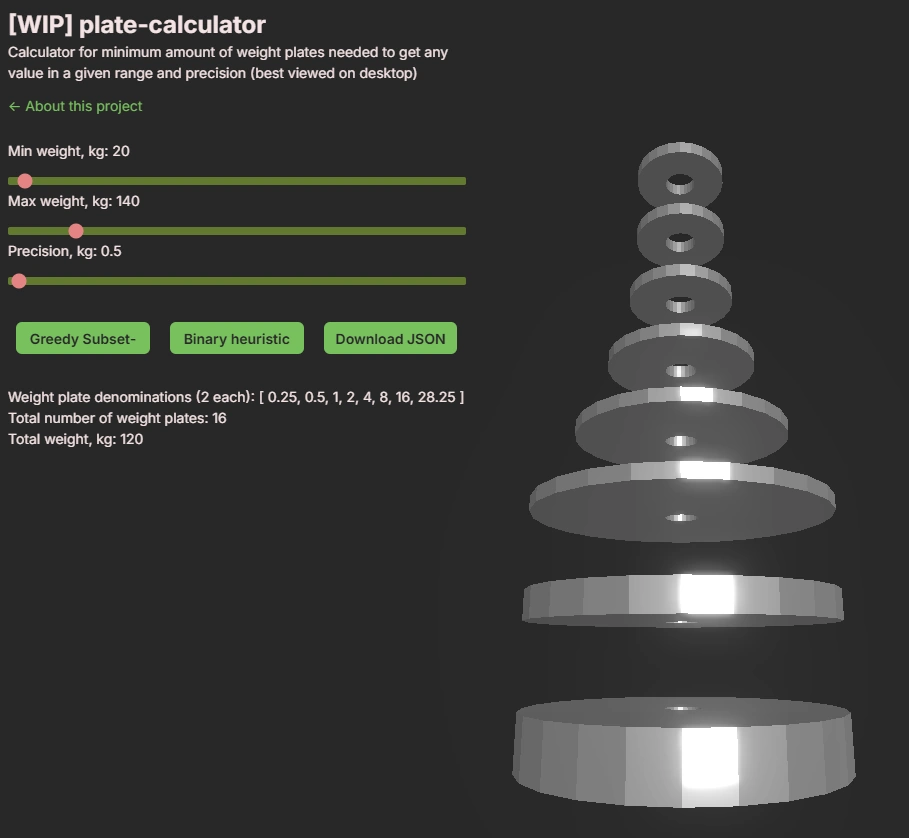
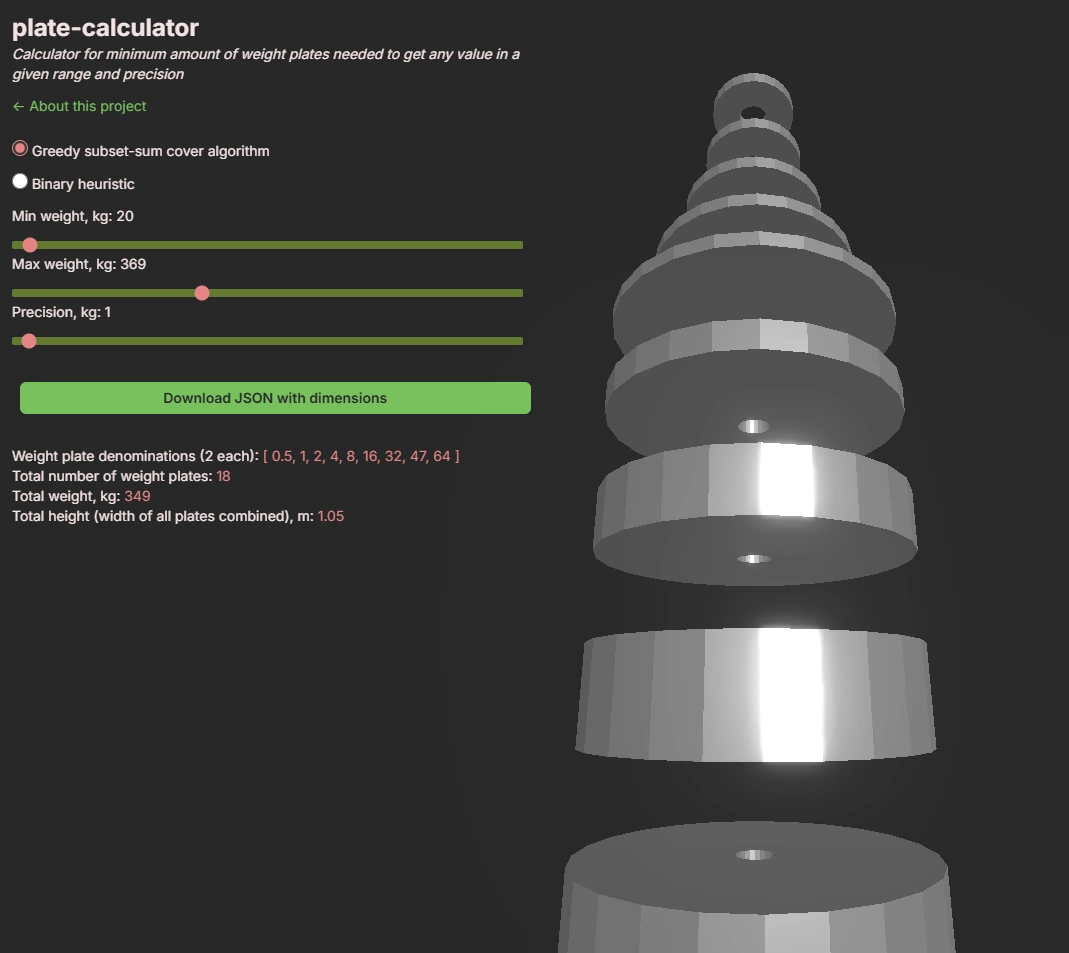
feat: clean up ui

Changed region(s): [[0.5237, 0.0621, 0.9549, 1.0], [0.0, 0.0, 0.5237, 0.4344], [0.0, 0.4654, 0.5237, 0.5585]]

diff --git a/app/pages/index.vue b/app/pages/index.vue
@@ -134,7 +134,7 @@ function exportJson() {
                 {{ AlgoOptions.binaryHeuristic }}
             </label>
         </section>
-        <section class="h-[150px]">
+        <section class="h-[120px] lg:h-[144px]">
             <client-only>
                 <BaseSlider
                     v-model="minWeight"
@@ -167,16 +167,16 @@ function exportJson() {
         <section>
             <client-only>
                 <p class="mt-6">
-                    Weight plate denominations (2 each): {{ plateDenoms }}
+                    Weight plate denominations (2 each): <span class="text-primary">{{ plateDenoms }}</span>
                 </p>
-                <p>Total number of weight plates: {{ result.numPlates }}</p>
+                <p>Total number of weight plates: <span class="text-primary">{{ result.numPlates }}</span></p>
                 <p>
                     Total weight, kg:
-                    {{ result.totalWeight }}
+                    <span class="text-primary">{{ result.totalWeight }}</span>
                 </p>
                 <p>
                     Total height (width of all plates combined), m:
-                    {{ result.totalHeight.toPrecision(3) }}
+                    <span class="text-primary">{{ result.totalHeight.toPrecision(3) }}</span>
                 </p>
             </client-only>
         </section>

diff --git a/app/components/Base/Button.vue b/app/components/Base/Button.vue
@@ -1,7 +1,7 @@
 <template>
     <button
         type="button"
-        class="w-full h-[32px] font-semibold text-background bg-accent hover:bg-background hover:text-accent border-2 border-accent rounded-md py-1 m-2">
+        class="w-full font-semibold text-background bg-accent hover:bg-background hover:text-accent border-2 border-accent rounded-md py-1 px-2 m-2">
         <slot />
     </button>
 </template>

diff --git a/app/pages/about.vue b/app/pages/about.vue
@@ -37,7 +37,7 @@ const md = markdownIt({
 const html = md.render(readmeRaw)
 </script>
 <template>
-    <main class="p-3 w-full max-w-[900px] min-w-[700px] mx-auto">
+    <main class="p-3 w-full max-w-[900px] mx-auto">
         <nav class="mt-3 text-accent">
             <NuxtLink to="/">{{ '<- Back to main page' }}</NuxtLink>
         </nav>

diff --git a/app/components/The/BackgroundScene.vue b/app/components/The/BackgroundScene.vue
@@ -102,7 +102,7 @@ function initControls() {
     controls.enableDamping = true // smooth motion
     controls.dampingFactor = 0.05
     controls.minDistance = 1
-    controls.maxDistance = 5
+    controls.maxDistance = 4
     controls.rotateSpeed = 0.8
 }
 

diff --git a/app/layouts/default.vue b/app/layouts/default.vue
@@ -53,7 +53,7 @@ useHead({
 })
 </script>
 <template>
-    <div class="m-0 bg-background text-text">
+    <div class="m-0 bg-background text-text text-xs lg:text-sm">
         <slot />
     </div>
 </template>
